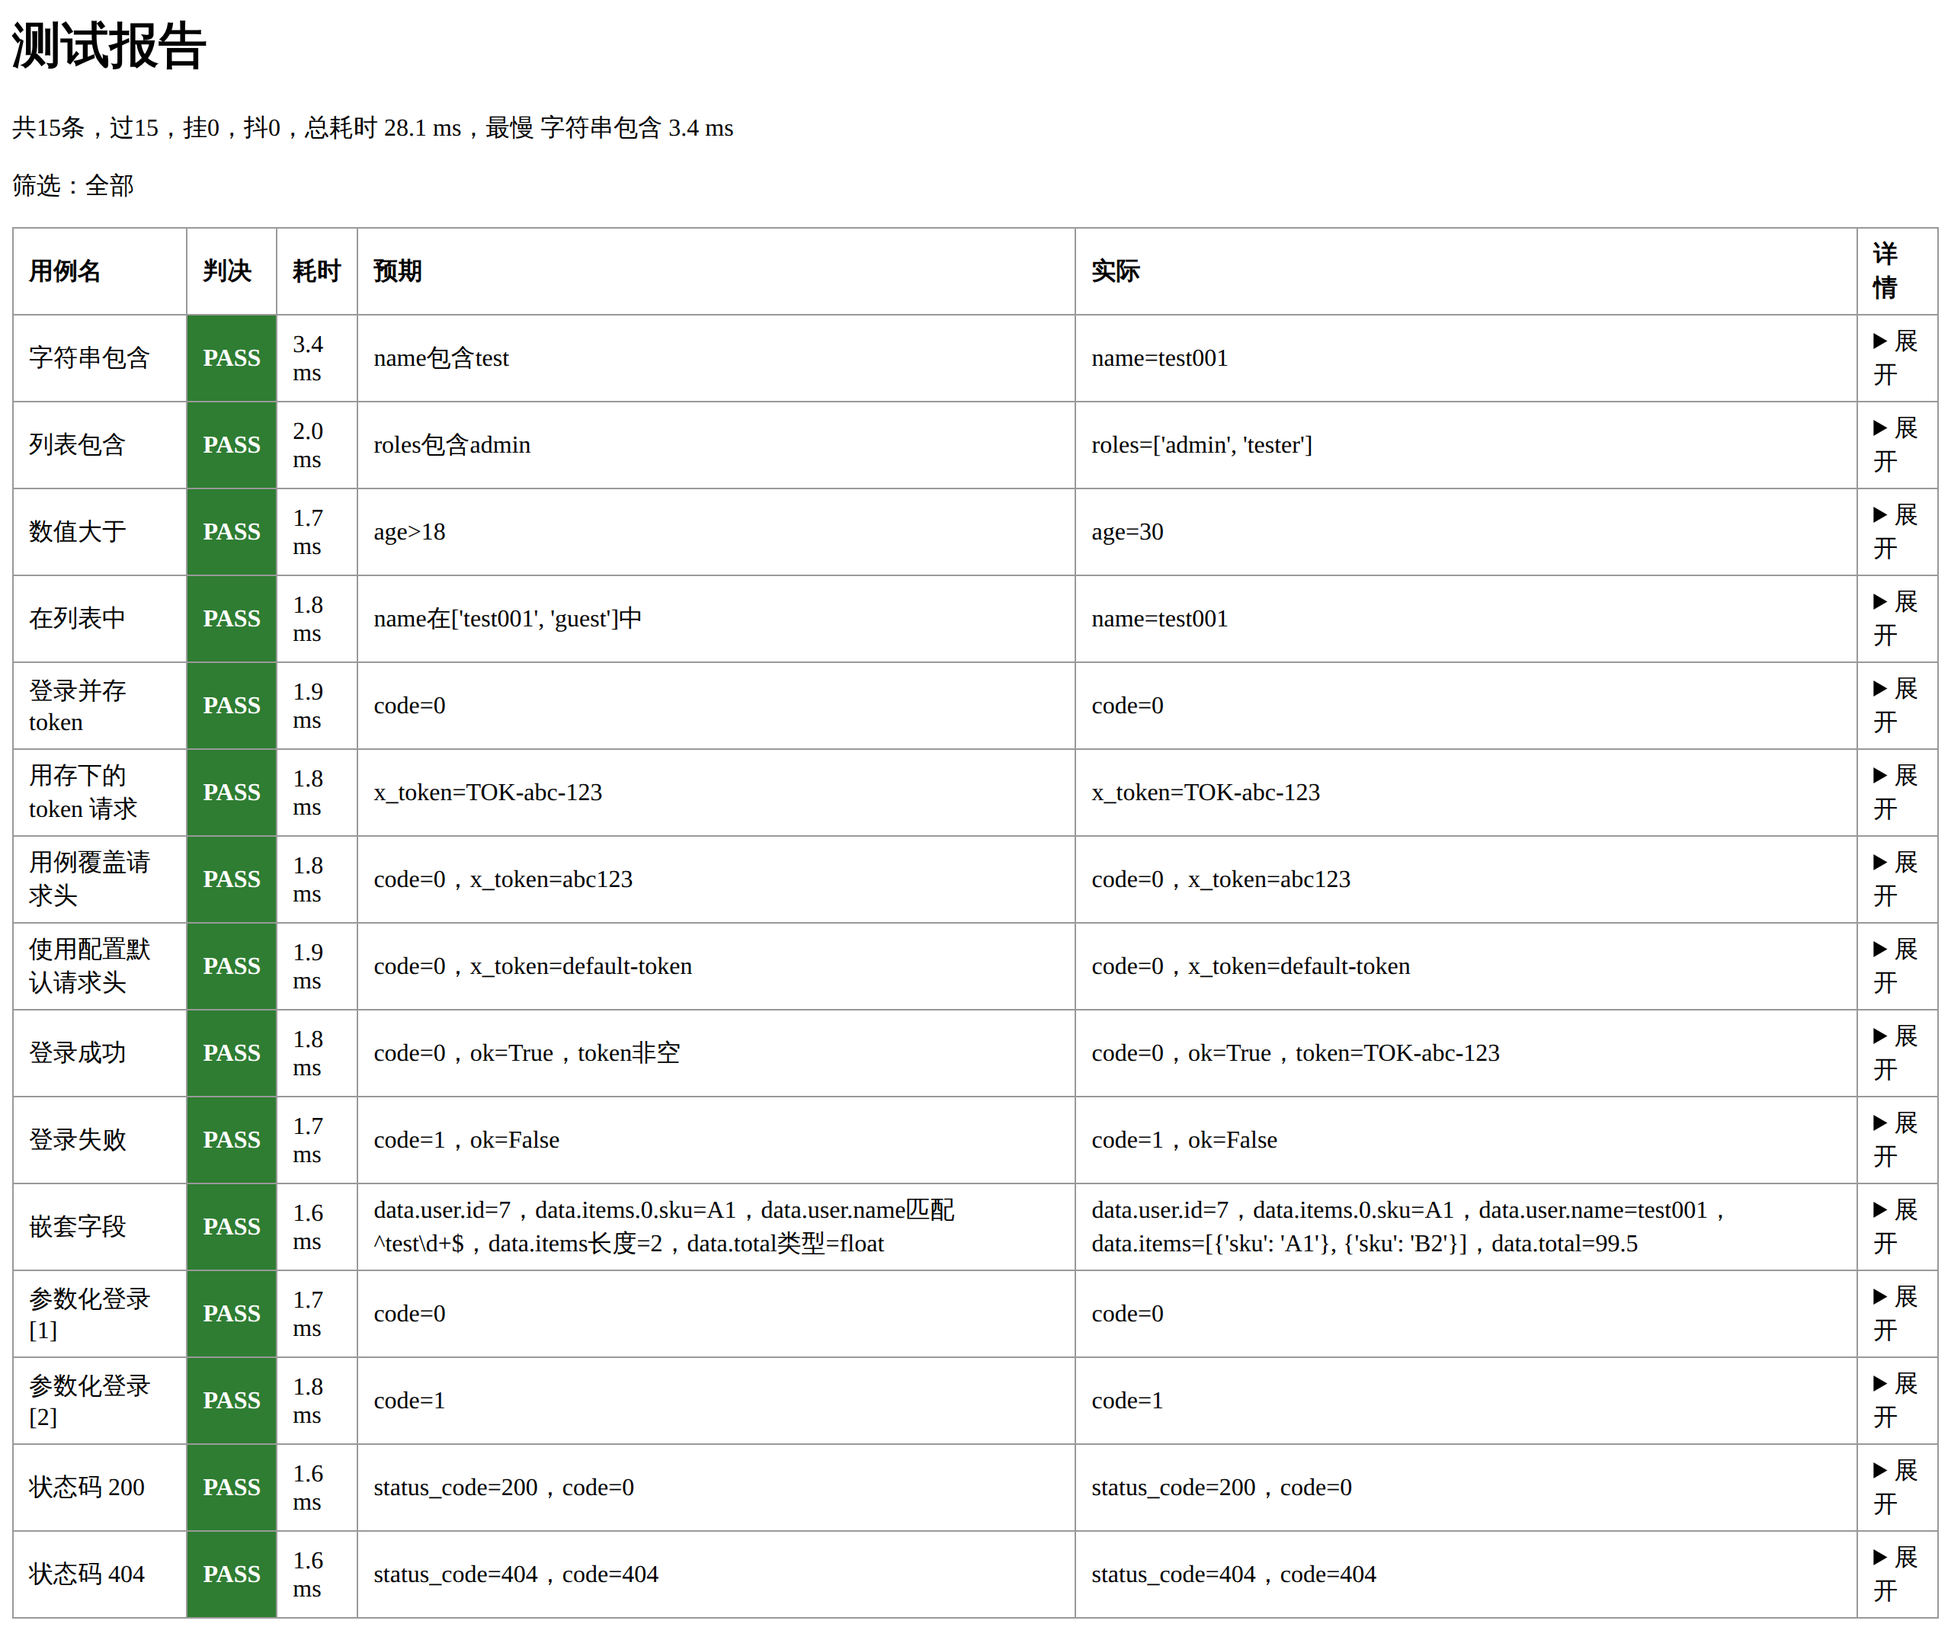
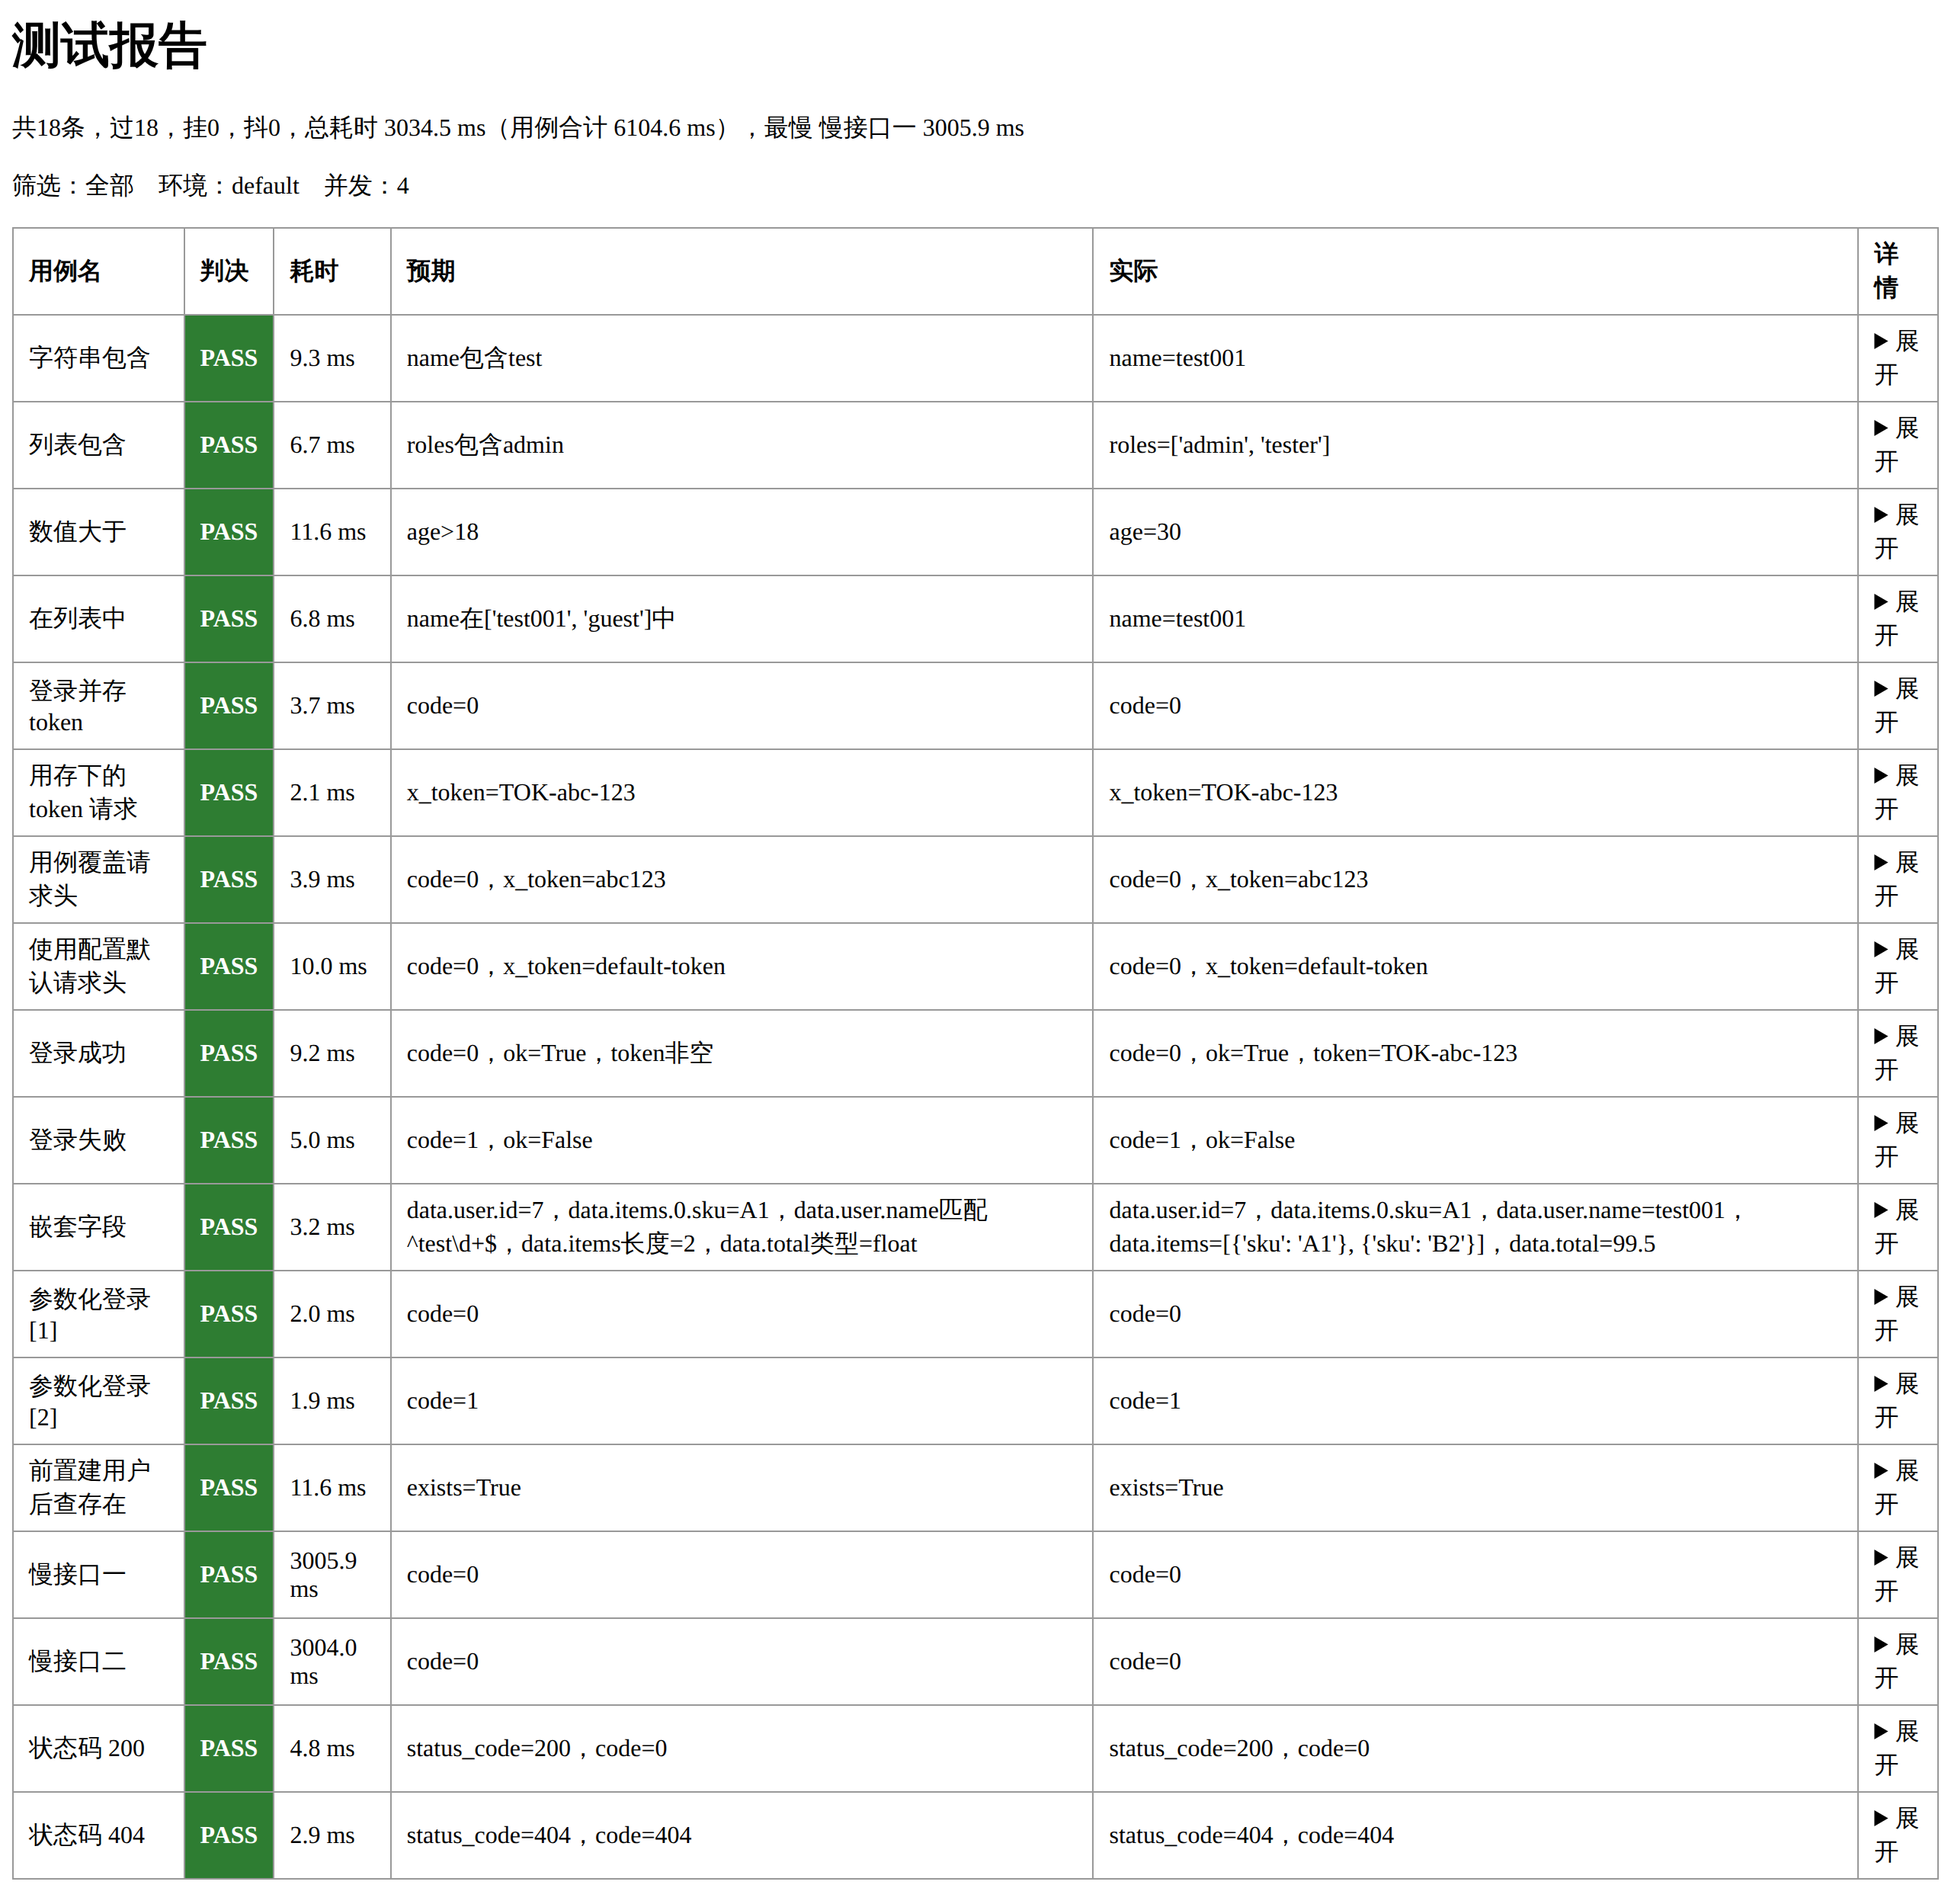
docs: 更新 v0.6 README 与报告截图

diff --git a/README.md b/README.md
@@ -2,9 +2,9 @@
 
 [![test](https://github.com/Stefan3199/mini-ui-autotest/actions/workflows/test.yml/badge.svg)](https://github.com/Stefan3199/mini-ui-autotest/actions/workflows/test.yml)
 
-一个从零实现的接口自动化测试框架（v0.5）。用例写在 YAML 里，跑一条命令，出 HTML 报告。
+一个从零实现的接口自动化测试框架（v0.6）。用例写在 YAML 里，跑一条命令，出 HTML 报告。
 
-名字里的 ui 是给后续 UI 自动化留的位置，v0.5 仍只做接口测试。
+名字里的 ui 是给后续 UI 自动化留的位置，v0.6 仍只做接口测试。
 
 ## 特性
 
@@ -19,6 +19,9 @@
 - **超时控制**：配置默认超时，用例可覆盖，超时记 FLAKY 不误判 FAIL
 - **标签筛选**：用例打 tags，命令行 `--tag` 只跑一组
 - **耗时统计**：每条用例计时，报告给出总耗时和最慢用例
+- **多环境**：`config/envs/<名字>.yaml` 只写差异，`--env test` 切过去，字典深合并
+- **前置后置**：用例可配 `setup` 和 `teardown` 请求列表，teardown 无论成败都执行
+- **并发执行**：`--workers 4` 多线程跑，带 `save` 或 `${}` 的用例自动分到串行通道
 - **HTML 报告**：总账、判决、耗时、预期与实际对比、请求详情、逐条断言结果
 - **自动 CI**：push 或 PR 触发 GitHub Actions，跑测试并上传报告
 - **分层结构**：用例加载、请求发送、断言、调度各管一摊
@@ -56,7 +59,15 @@ python run.py
 python run.py --tag smoke
 ```
 
-打开 `report/report.html` 看报告。
+切环境和开并发：
+
+```bash
+python run.py --env test
+python run.py --workers 4
+python run.py --tag slow --workers 2
+```
+
+打开 `report/report.html` 看报告，用了 `--env` 时报告落在该环境配的目录里。
 
 ## 配置
 
@@ -76,6 +87,15 @@ headers:
 - `retry_count`：单条用例最多尝试次数
 - `timeout`：单次请求超时秒数，用例可覆盖
 - `headers`：公共请求头，用例里的同名头会覆盖这里
+
+环境配置放在 `config/envs/<名字>.yaml`，只写和基础配置不一样的部分：
+
+```yaml
+report_dir: "report-test"
+timeout: 10
+```
+
+`python run.py --env test` 会把这份覆盖上去，字典一层层合并，其余沿用 `config/config.yaml`。环境文件不存在时直接报错退出，不会悄悄用默认值跑。
 
 ## 用例格式
 
@@ -110,6 +130,8 @@ headers:
 - `params`：请求参数
 - `save`：可选，把响应字段存进上下文，写成 `变量名: 字段路径`
 - `data`：可选，参数化数据列表，每行一组变量，用例按行展开
+- `setup`：可选，前置请求列表，发主请求之前逐条跑
+- `teardown`：可选，后置请求列表，主请求之后必跑
 - `expect`：断言列表，全部命中才算 PASS
 
 ### 断言类型
@@ -202,11 +224,40 @@ headers:
 
 报告里会显示成 `参数化登录[1]`、`参数化登录[2]`，哪一组挂了能直接定位。
 
+### 前置与后置
+
+```yaml
+- name: 前置建用户后查存在
+  setup:
+    - name: 建临时用户
+      url: /admin/user
+      method: POST
+      params: {user: tmp001}
+  teardown:
+    - name: 删临时用户
+      url: /admin/user/delete
+      method: POST
+      params: {user: tmp001}
+  url: /admin/user/get
+  method: GET
+  params: {user: tmp001}
+  expect:
+    - field: exists
+      op: eq
+      value: true
+```
+
+setup 里任何一步没拿到响应，这条用例直接判 FAIL，主请求不发；teardown 不管主请求成败都会跑，它失败也判 FAIL，因为环境没清干净会污染后面的用例。
+
+### 并发
+
+`--workers 4` 开四个线程。带 `save` 或者引用了 `${}` 的用例会自动分到串行通道，避免后一条拿到空 token；其余并发跑，报告仍按用例原始顺序排。
+
 ## 报告
 
 报告是单个 HTML 文件，包含：
 
-- 顶部总账：共几条，过、挂、抖各几条，总耗时、最慢用例，当前筛选的标签
+- 顶部总账：共几条，过、挂、抖各几条，墙钟总耗时和用例耗时合计，最慢用例，当前筛选、环境、并发数
 - 每条用例：名字、判决、耗时、预期摘要、实际摘要
 - 详情折叠：请求方法、地址、参数、请求头、存下的变量，失败原因，逐条断言结果
 
@@ -216,7 +267,7 @@ headers:
 - `FAIL`：有断言没中
 - `FLAKY`：重试次数用完仍没拿到响应，属于环境抖动，不算业务失败
 
-15 条用例全绿时长这样：
+18 条用例全绿时长这样：
 
 ![测试报告](docs/images/report.png)
 
@@ -246,6 +297,7 @@ mini-ui-autotest/
 │       └── test.yml       # GitHub Actions 工作流
 ├── case/                  # 用例
 ├── config/                # 配置
+│   └── envs/              # 环境覆盖：dev、test
 ├── demo/                  # 被测 demo 服务
 ├── docs/
 │   └── images/            # README 截图
@@ -276,6 +328,10 @@ mini-ui-autotest/
 - `save` 只在用例 PASS 后写上下文，失败用例的响应不能喂给后面的用例。
 - 变量没定义直接判 FAIL，不按字面量发出去，否则预期和实际都是 `${token}`，会假绿。
 - `type` 用 `type(actual) is want`，不用 `isinstance`：Python 里 `True` 也是 `int`，用 isinstance 判 int 会放过 bool。
+- 环境文件只写差异，深合并，缺文件直接退出，避免环境名拼错还静默跑默认配置。
+- setup 失败就不发主请求，teardown 一定执行，它失败也判 FAIL。
+- 并发按依赖自动切通道，`save` 和 `${}` 是判定依据，不靠人工标注。
+- 报告的墙钟耗时和用例耗时合计分开列，并发时两个数差多少就知道省了多少。
 - CI 看退出码不看屏幕输出，用例有挂或抖时 `run.py` 返回 1。
 
 ## Roadmap
@@ -284,6 +340,7 @@ mini-ui-autotest/
 - v0.3（已完成）：状态码断言、contains、gt、in
 - v0.4（已完成）：GitHub Actions 持续集成
 - v0.5（已完成）：嵌套字段、regex/len/type、变量传递、参数化、耗时统计
+- v0.6（已完成）：多环境、setup/teardown、并发执行
 - 远期：Playwright UI 自动化
 
 ## License
